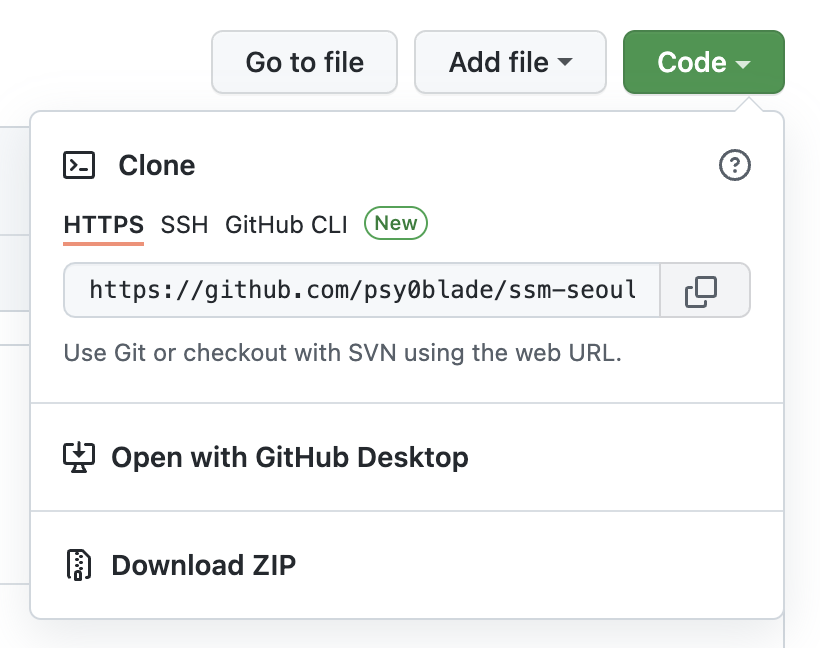
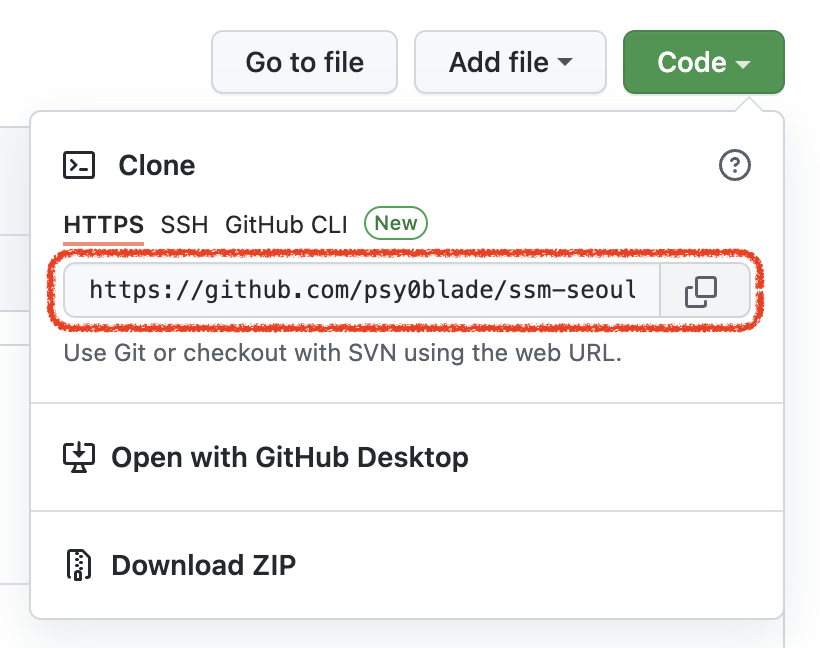
[수정] 이미지 하이라이트

Changed region(s): [[0.0305, 0.3704, 0.9451, 0.5247]]

diff --git a/github/README.md b/github/README.md
@@ -32,8 +32,14 @@ git clone https://github.com/<아이디>/ssm-seoul-tutorial.git
 > 해당 프로젝트에서 README.md 파일을 수정하고 코드를 서버로 업로드 합니다
 
 ```bash
-echo "Hello world" > README.md
-git commit -am "[수정] README.md"
+# README.md 파일을 생성
+echo "ssm seoul tutorial" > README.md
+
+# 생성된 파일을 레포지토리에 추가 및 저장
+git add -A
+git commit -m "[수정] README.md"
+
+# 원격지 github.com 저장소로 전송
 git push
 ```
 
